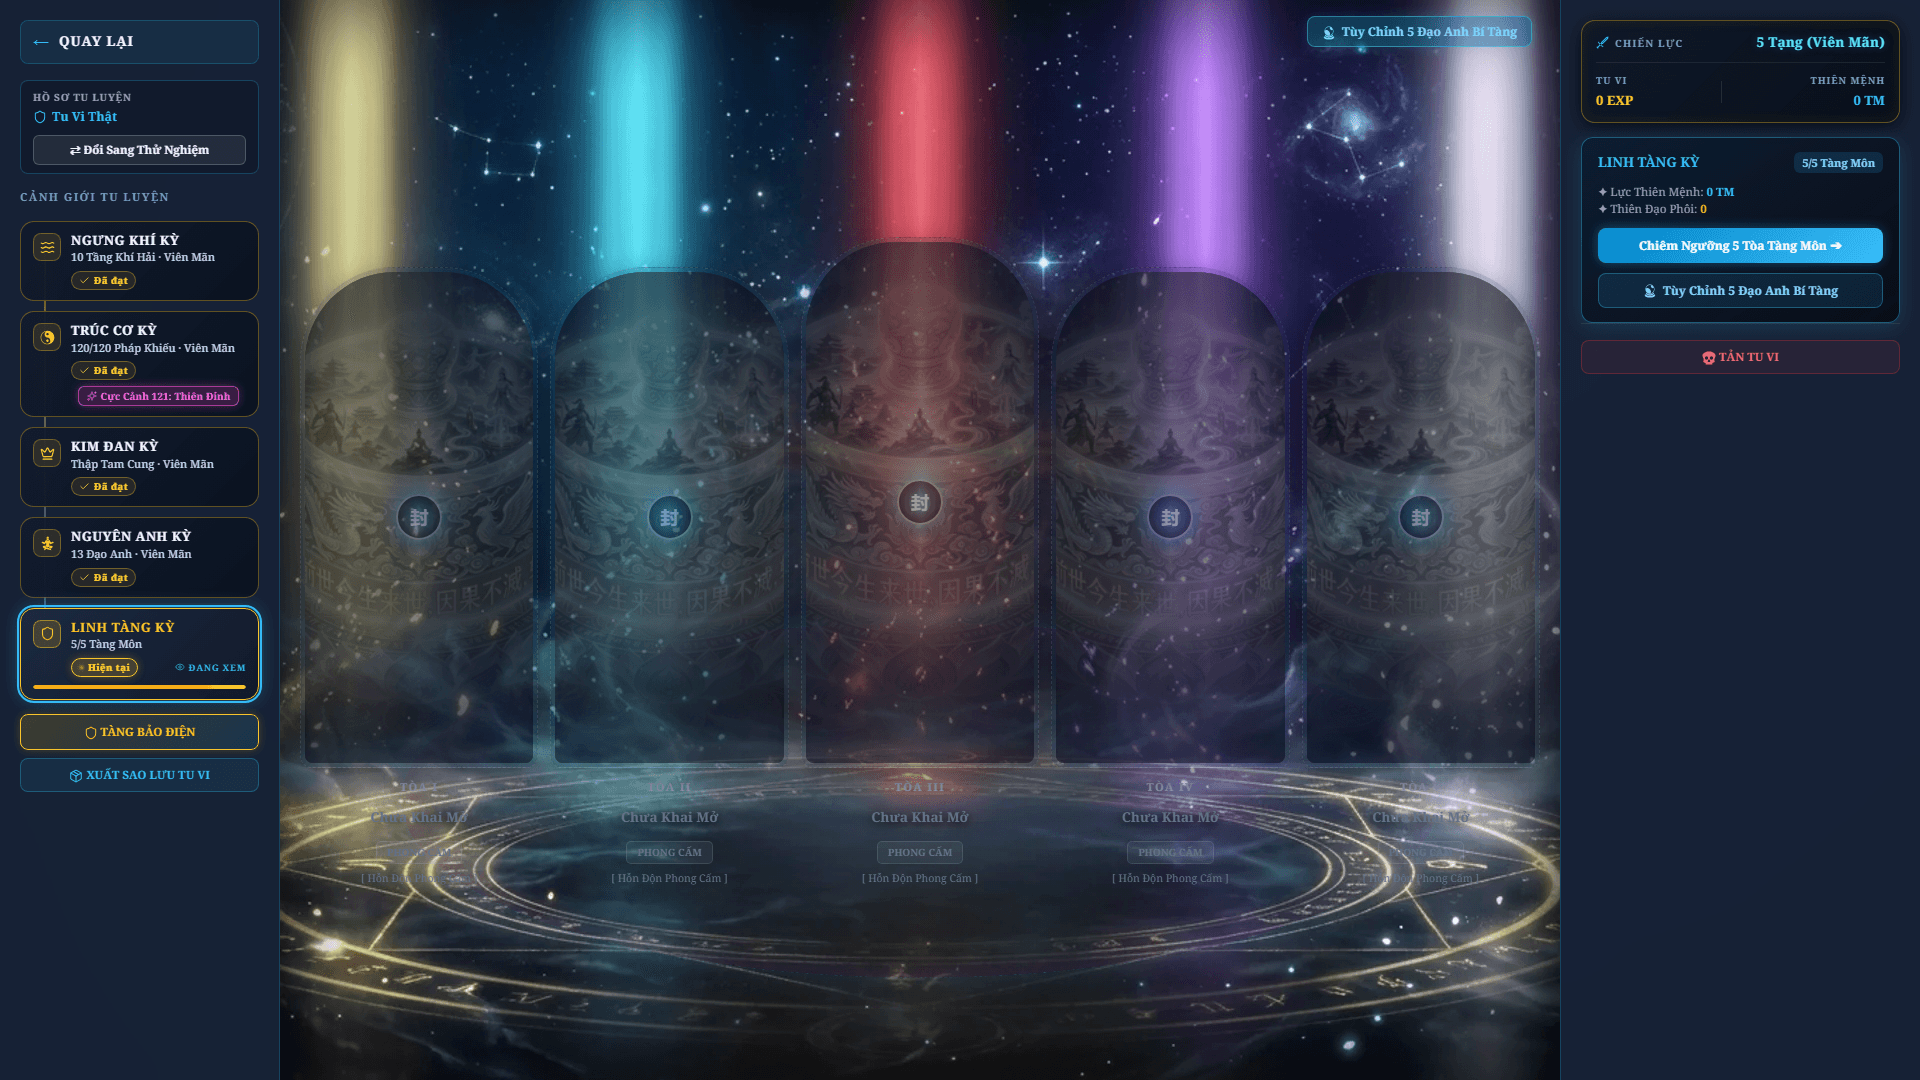
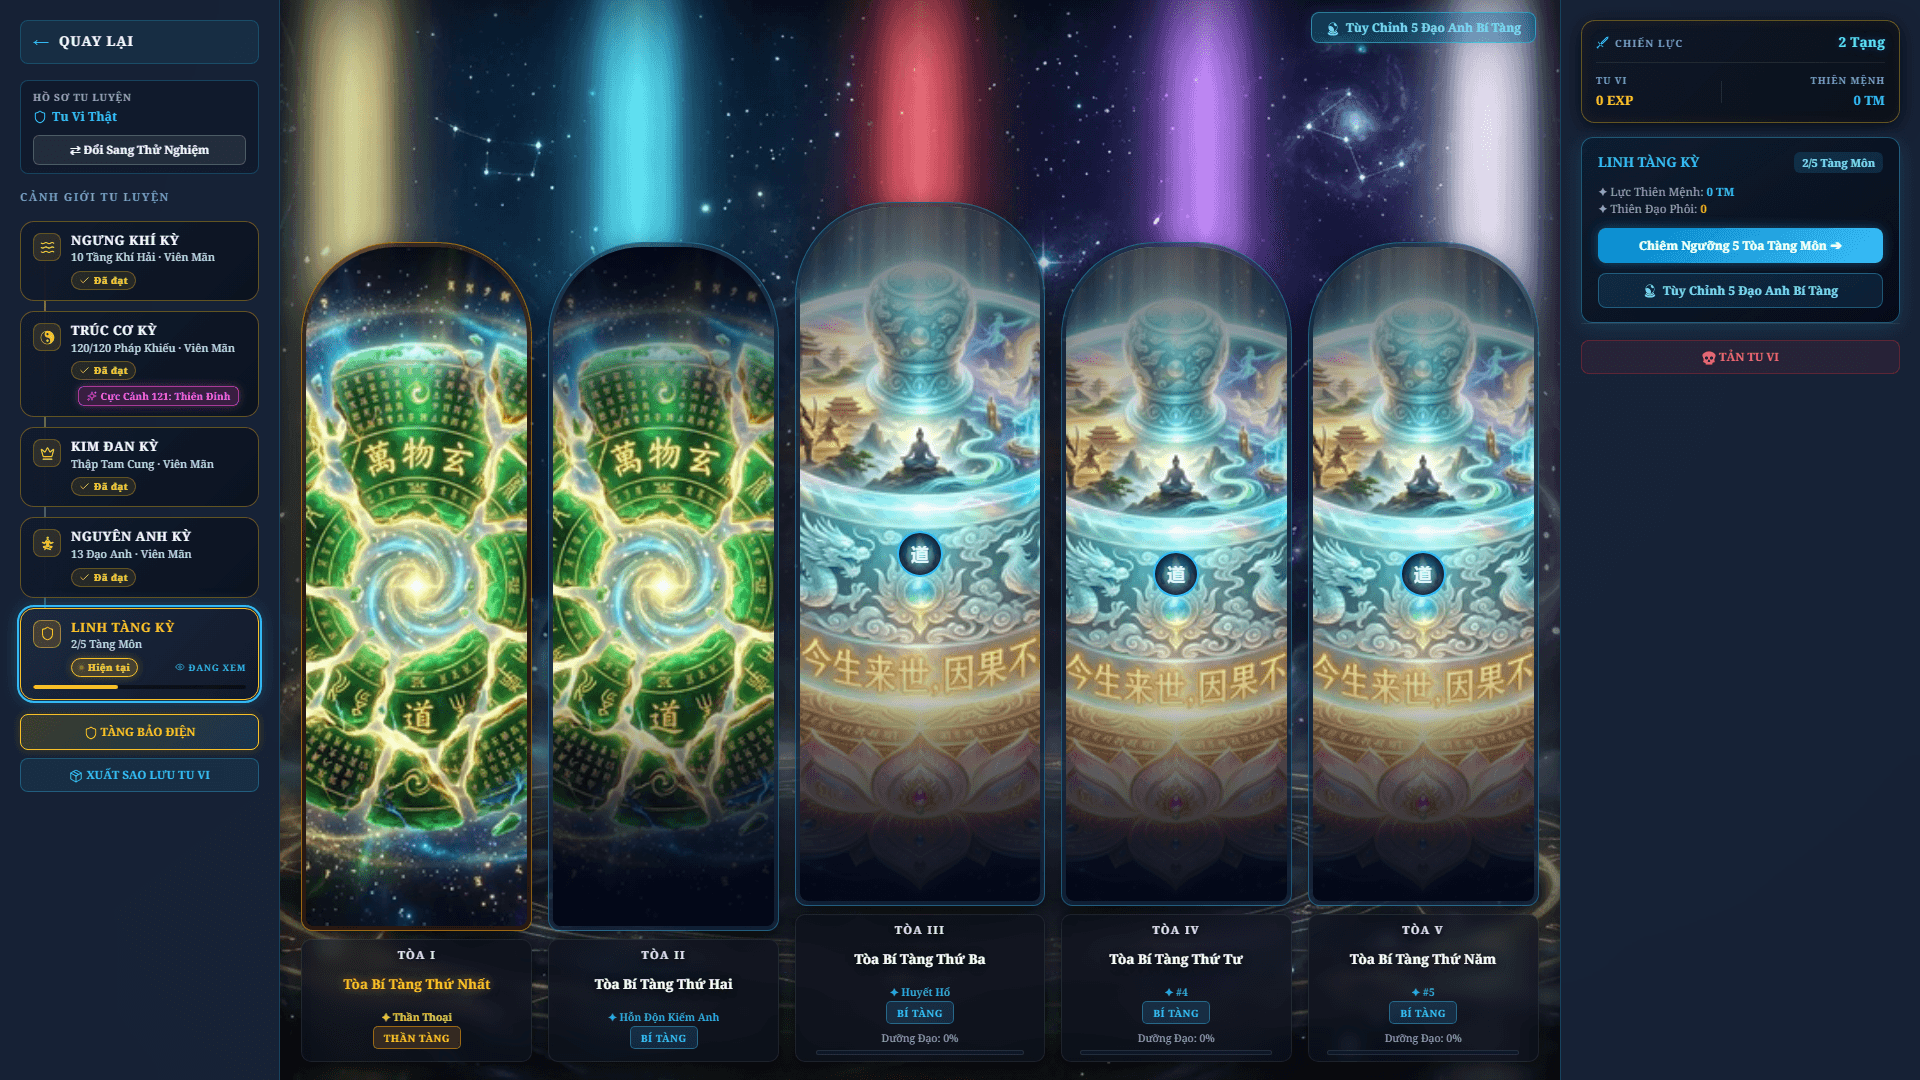
fix(linh-tang): size the five gates to the stage so they stay large

diff --git a/src/components/cultivation/LinhTangVisualizer.module.css b/src/components/cultivation/LinhTangVisualizer.module.css
@@ -16,7 +16,7 @@
   border-radius: 0;
   border: none;
   box-shadow: inset 0 0 100px rgba(0, 0, 0, 0.85);
-  padding: 16px 20px;
+  padding: 12px clamp(6px, 1vw, 16px);
   position: relative;
   overflow: hidden;
   color: #f1f5f9;
@@ -38,6 +38,14 @@
    BACKGROUND COSMIC VOID & DIVINE EYE LAYERS
    ========================================================================= */
 
+.bgVoidLayer {
+  position: absolute;
+  inset: 0;
+  overflow: hidden;
+  pointer-events: none;
+  z-index: 1;
+}
+
 .cosmicBg {
   position: absolute;
   inset: 0;
@@ -55,7 +63,8 @@
   top: 42%;
   left: 50%;
   transform: translate(-50%, -50%);
-  width: 720px;
+  width: min(720px, 94%);
+  max-width: 100%;
   height: 440px;
   background-size: cover;
   background-position: center;
@@ -81,8 +90,9 @@
   bottom: -240px;
   left: 50%;
   transform: translateX(-50%) rotateX(70deg);
-  width: 1040px;
-  height: 1040px;
+  width: min(1040px, 96%);
+  max-width: 100%;
+  height: min(1040px, 96%);
   border-radius: 50%;
   border: 1.5px dashed rgba(56, 189, 248, 0.25);
   box-shadow: 0 0 80px rgba(56, 189, 248, 0.14), inset 0 0 80px rgba(168, 85, 247, 0.14);
@@ -144,27 +154,31 @@
   z-index: 5;
   width: 100%;
   flex: 1;
+  min-height: 0;
   display: flex;
   flex-direction: column;
   justify-content: center;
   align-items: center;
-  padding: 4px 0;
+  padding: 2px 0 6px 0;
+  container-type: size;
 }
 
 .gatesRow {
   display: flex;
   justify-content: center;
   align-items: flex-end;
-  gap: 12px;
+  gap: clamp(6px, 1vw, 16px);
   width: 100%;
-  max-width: min(1380px, 94vw);
+  max-width: 100%;
+  flex: 1;
+  min-height: 0;
 }
 
 .celestialGateEntity {
   flex: 1 1 0;
-  max-width: clamp(175px, 16vw, 245px);
-  min-width: 125px;
-  height: clamp(430px, 58vh, 620px);
+  max-width: clamp(180px, 18.5cqw, 255px);
+  min-width: 0;
+  height: clamp(450px, 86cqh, 820px);
   display: flex;
   flex-direction: column;
   align-items: center;
@@ -184,8 +198,9 @@
 }
 
 .centerGateEntity {
-  max-width: clamp(185px, 17vw, 260px);
-  height: clamp(450px, 61vh, 650px);
+  flex: 1.06 1.06 0;
+  max-width: clamp(195px, 20cqw, 275px);
+  height: clamp(475px, 91cqh, 860px);
   z-index: 4;
 }
 
@@ -438,22 +453,29 @@
   flex-direction: column;
   align-items: center;
   text-align: center;
-  margin-top: 10px;
-  padding: 0 6px;
+  margin-top: 8px;
+  padding: 6px 8px;
+  border-radius: 10px;
+  background: rgba(11, 15, 28, 0.72);
+  backdrop-filter: blur(8px);
+  -webkit-backdrop-filter: blur(8px);
+  border: 1px solid rgba(255, 255, 255, 0.08);
+  box-shadow: 0 4px 14px rgba(0, 0, 0, 0.6);
 }
 
 .gateTierIndex {
   font-size: 11px;
   font-weight: 900;
   letter-spacing: 1.5px;
-  color: #94a3b8;
+  color: #e2e8f0;
+  text-shadow: 0 2px 6px rgba(0, 0, 0, 0.9);
   margin-bottom: 3px;
 }
 
 .gateMainName {
   font-size: 13.5px;
   font-weight: 800;
-  color: #f8fafc;
+  color: #ffffff;
   line-height: 1.35;
   min-height: 36px;
   display: flex;
@@ -471,7 +493,9 @@
 }
 
 .gateMainNameLocked {
-  color: #64748b;
+  color: #94a3b8;
+  font-weight: 700;
+  text-shadow: 0 2px 8px rgba(0, 0, 0, 0.9);
 }
 
 .gateBadgesRow {
@@ -1165,16 +1189,16 @@
 
   .celestialGateEntity {
     flex: 0 0 84vw;
-    max-width: 330px;
+    max-width: 340px;
     min-width: 280px;
-    height: 535px;
+    height: clamp(520px, 64vh, 660px);
     scroll-snap-align: center;
     transition: transform 0.3s ease, filter 0.3s ease;
   }
 
   .centerGateEntity {
-    max-width: 330px;
-    height: 535px;
+    max-width: 340px;
+    height: clamp(520px, 64vh, 660px);
   }
 
   .gateArchFrame {

diff --git a/src/components/cultivation/LinhTangVisualizer.jsx b/src/components/cultivation/LinhTangVisualizer.jsx
@@ -281,12 +281,14 @@ export default function LinhTangVisualizer() {
 
   return (
     <div className={styles.container}>
-      <div className={styles.cosmicBg} />
-      <div 
-        className={styles.godEyeOverlay} 
-        style={{ backgroundImage: `url(${godEyeImg})` }} 
-      />
-      <div className={styles.astralFloorRing} />
+      <div className={styles.bgVoidLayer}>
+        <div className={styles.cosmicBg} />
+        <div 
+          className={styles.godEyeOverlay} 
+          style={{ backgroundImage: `url(${godEyeImg})` }} 
+        />
+        <div className={styles.astralFloorRing} />
+      </div>
 
       {/* THANH ĐIỀU HƯỚNG TRÊN CÙNG CỦA LINH TÀNG */}
       <div className={styles.topControlBar}>
